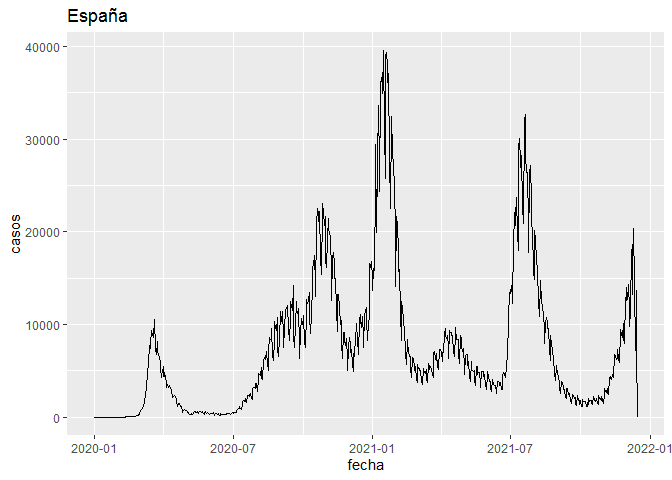
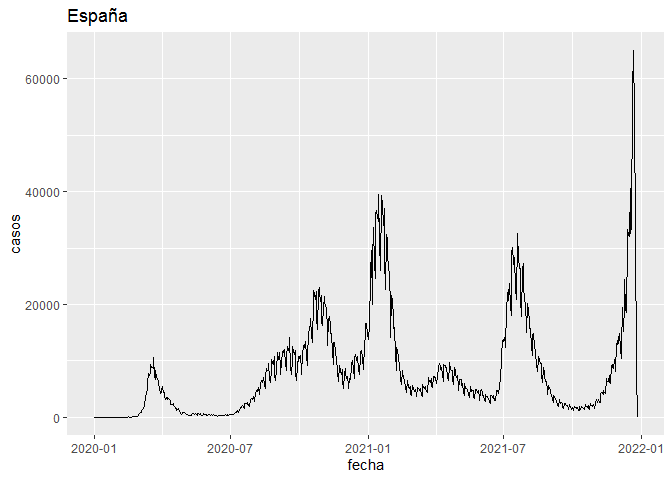
update

diff --git a/README.md b/README.md
@@ -1,11 +1,13 @@
 Covid-19: Incidencia acumulada
 ================
 JMSS \[Usal - CIC\]
-(updated: 15 dic. 2021)
+(updated: 28 dic 2021)
 
 ### Incidencia acumulada del Covid19 a 14 días por cada 100.000 habitantes
 
-Datos desde *01/01/2020* extraidos de: [Datadista
-GitHub](https://github.com/datadista/datasets/tree/master/COVID%2019)
+Datos desde *01/01/2020* extraidos de: [CNE-covid
+ISCIII](https://cnecovid.isciii.es/covid19) y de [Junta de Castilla y
+León - Datos
+abiertos](https://analisis.datosabiertos.jcyl.es/pages/home/)
 
 ![](README_files/figure-gfm/graficos-1.png)<!-- -->![](README_files/figure-gfm/graficos-2.png)<!-- -->![](README_files/figure-gfm/graficos-3.png)<!-- -->
